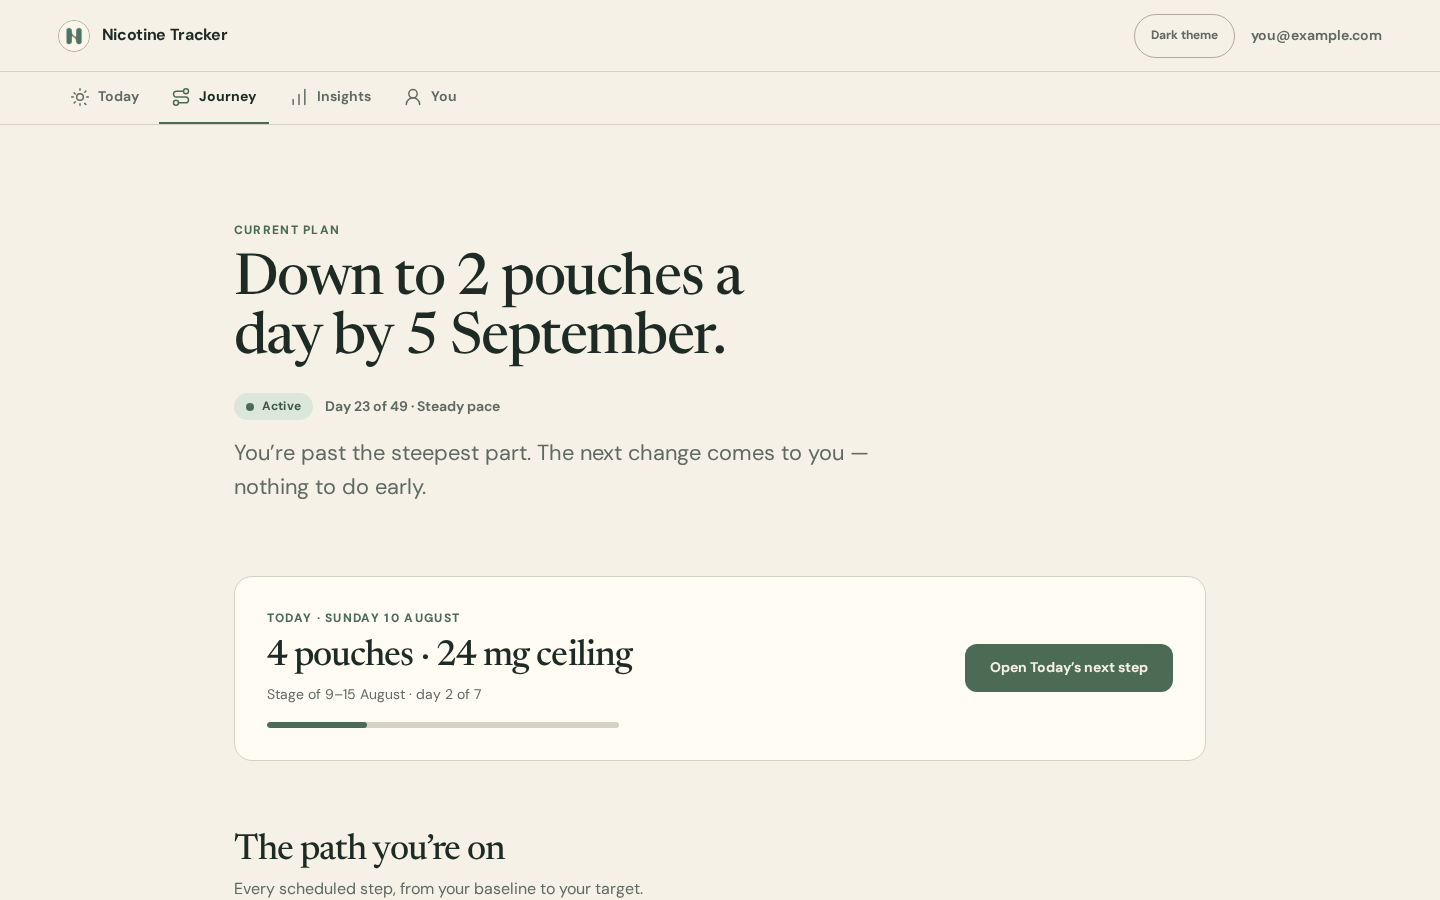
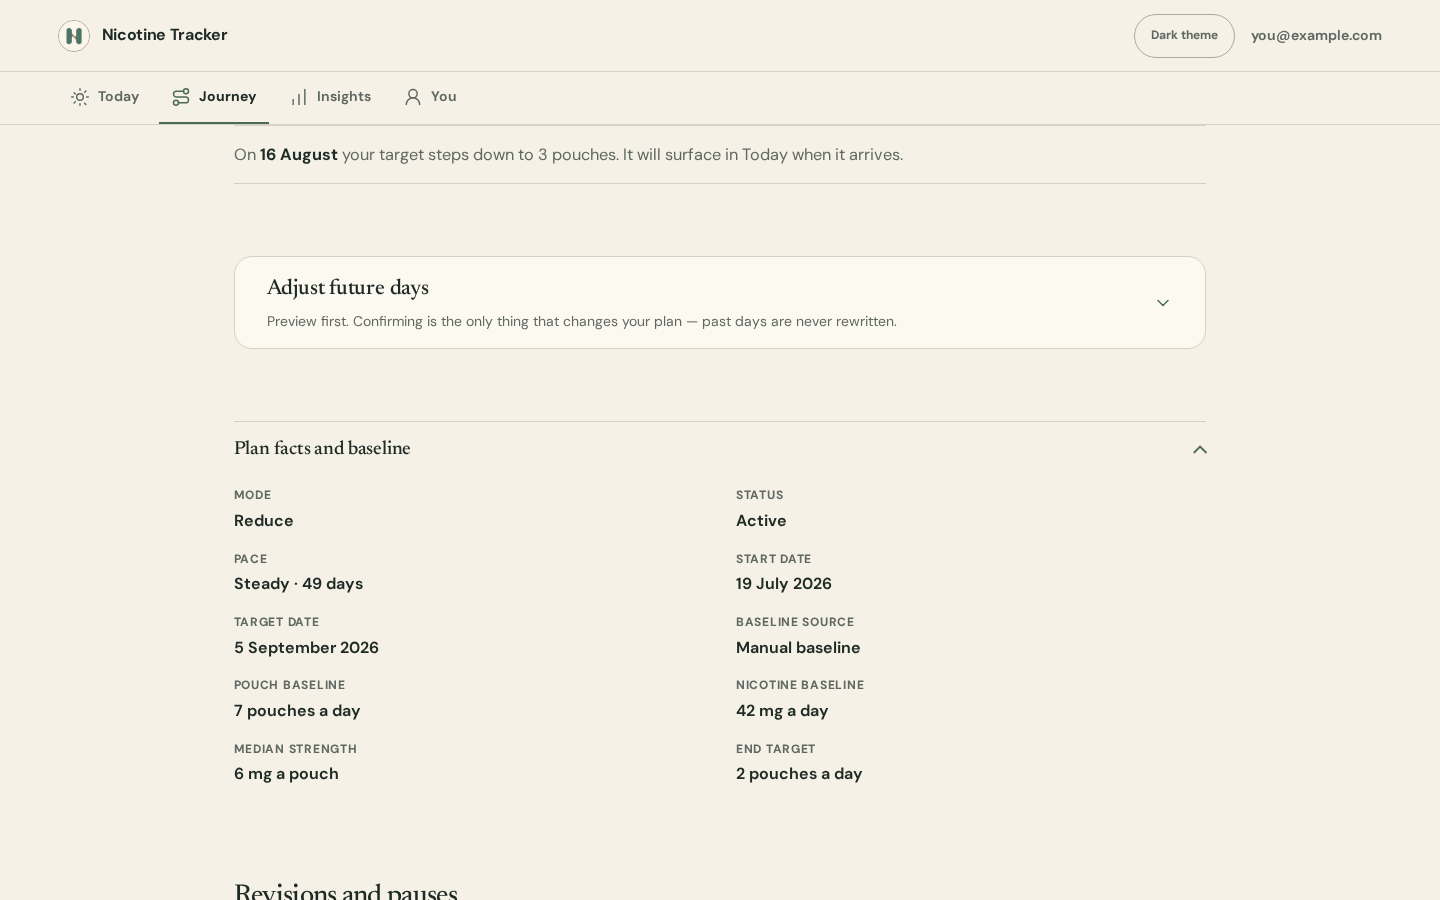
prototype: animate facts accordion; fix history date contrast; harden axe reveal

diff --git a/prototypes/journey/index.html b/prototypes/journey/index.html
@@ -54,6 +54,7 @@
   --color-attention-soft: #f1ddd3;
   --color-milestone: #c5a05a;
   --color-milestone-soft: #eee2c6;
+  --color-milestone-deep: #7d5f2a;
   --color-focus: #2f6b4a;
   --color-danger: #944733;
   --font-display: "Newsreader", Georgia, serif;
@@ -94,6 +95,7 @@
   --color-attention-soft: #422d25;
   --color-milestone: #d4b474;
   --color-milestone-soft: #3e3525;
+  --color-milestone-deep: #d4b474;
   --color-focus: #b8d2bc;
   --color-danger: #e09477;
   --shadow-overlay: none;
@@ -654,6 +656,13 @@ button { font: inherit; }
   transition: transform var(--duration-panel) var(--ease-out-expo);
 }
 .facts[open] summary::after { transform: rotate(225deg) translateY(-.15rem); }
+.facts__collapse { display: grid; grid-template-rows: 1fr; }
+html.js .facts__collapse {
+  grid-template-rows: 0fr;
+  transition: grid-template-rows var(--duration-panel) var(--ease-out-expo);
+}
+html.js .facts__collapse.is-open { grid-template-rows: 1fr; }
+.facts__collapse-inner { min-height: 0; overflow: hidden; }
 .facts__grid {
   display: grid;
   grid-template-columns: 1fr 1fr;
@@ -698,7 +707,7 @@ button { font: inherit; }
   width: 3.5rem;
   font-family: var(--font-display);
   font-style: italic;
-  color: var(--color-milestone);
+  color: var(--color-milestone-deep);
   font-size: 1rem;
 }
 
@@ -724,6 +733,7 @@ html.js .rise.is-in {
   .chart-step--past.draw-in { animation: none; stroke-dasharray: none; stroke-dashoffset: 0; }
   .chart-step--future.fade-in, .chart-preview-step.fade-in { animation: none; opacity: 1; }
   .adjust__collapse, .adjust__collapse-inner { transition: none; }
+  html.js .facts__collapse { grid-template-rows: 1fr; transition: none; }
 }
 
 @media (max-width: 48rem) {
@@ -900,20 +910,24 @@ html.js .rise.is-in {
     </div>
   </section>
 
-  <details class="facts rise" style="--i:5">
+  <details class="facts rise" style="--i:5" data-accordion>
     <summary>Plan facts and baseline</summary>
-    <dl class="facts__grid">
-      <div><dt>Mode</dt><dd>Reduce</dd></div>
-      <div><dt>Status</dt><dd>Active</dd></div>
-      <div><dt>Pace</dt><dd>Steady · 49 days</dd></div>
-      <div><dt>Start date</dt><dd>19 July 2026</dd></div>
-      <div><dt>Target date</dt><dd>5 September 2026</dd></div>
-      <div><dt>Baseline source</dt><dd>Manual baseline</dd></div>
-      <div><dt>Pouch baseline</dt><dd>7 pouches a day</dd></div>
-      <div><dt>Nicotine baseline</dt><dd>42 mg a day</dd></div>
-      <div><dt>Median strength</dt><dd>6 mg a pouch</dd></div>
-      <div><dt>End target</dt><dd>2 pouches a day</dd></div>
-    </dl>
+    <div class="facts__collapse" data-accordion-collapse>
+      <div class="facts__collapse-inner">
+        <dl class="facts__grid">
+          <div><dt>Mode</dt><dd>Reduce</dd></div>
+          <div><dt>Status</dt><dd>Active</dd></div>
+          <div><dt>Pace</dt><dd>Steady · 49 days</dd></div>
+          <div><dt>Start date</dt><dd>19 July 2026</dd></div>
+          <div><dt>Target date</dt><dd>5 September 2026</dd></div>
+          <div><dt>Baseline source</dt><dd>Manual baseline</dd></div>
+          <div><dt>Pouch baseline</dt><dd>7 pouches a day</dd></div>
+          <div><dt>Nicotine baseline</dt><dd>42 mg a day</dd></div>
+          <div><dt>Median strength</dt><dd>6 mg a pouch</dd></div>
+          <div><dt>End target</dt><dd>2 pouches a day</dd></div>
+        </dl>
+      </div>
+    </div>
   </details>
 
   <section class="history rise" style="--i:6" aria-labelledby="history-title">
@@ -973,6 +987,51 @@ html.js .rise.is-in {
     });
   }, { threshold: 0.12 });
   document.querySelectorAll(".rise").forEach((el) => io.observe(el));
+
+  /* Animated accordions: details[data-accordion] unfold via grid-rows.
+     The open attribute is kept during the close transition so the content
+     stays visible while collapsing; reduced motion keeps native instant
+     toggling. */
+  const reducedMotionNow = () => window.matchMedia("(prefers-reduced-motion: reduce)").matches;
+  document.querySelectorAll("details[data-accordion]").forEach((details) => {
+    const summary = details.querySelector("summary");
+    const collapse = details.querySelector("[data-accordion-collapse]");
+    if (!summary || !collapse) return;
+    let animating = false;
+    const afterTransition = (fn) => {
+      let done = false;
+      const wrap = (e) => {
+        if (e && e.propertyName && e.propertyName !== "grid-template-rows") return;
+        if (done) return;
+        done = true;
+        collapse.removeEventListener("transitionend", wrap);
+        animating = false;
+        fn();
+      };
+      collapse.addEventListener("transitionend", wrap);
+      setTimeout(wrap, 350); // safety: transition duration + margin
+    };
+    summary.addEventListener("click", (e) => {
+      if (animating) {
+        e.preventDefault();
+        return;
+      }
+      if (reducedMotionNow()) return; // native instant toggle
+      e.preventDefault();
+      animating = true;
+      if (!details.open) {
+        details.open = true; // children render (UA unhides)
+        void collapse.offsetHeight; // flush the 0fr state so the transition has a start
+        collapse.classList.add("is-open"); // 0fr -> 1fr
+        afterTransition(() => {});
+      } else {
+        collapse.classList.remove("is-open"); // 1fr -> 0fr
+        afterTransition(() => {
+          details.open = false; // UA re-hides the collapsed content
+        });
+      }
+    });
+  });
 })();
 </script>
 <script>

diff --git a/prototypes/journey/verify.js b/prototypes/journey/verify.js
@@ -14,6 +14,10 @@ const { AxeBuilder } = require("@axe-core/playwright");
   await page.selectOption("[data-adjust-pace]", "focused");
   await page.click("[data-adjust-preview]");
   await page.waitForSelector("[data-preview-summary]:not([hidden])", { timeout: 5000 });
+  await page.click(".facts summary");
+  await page.waitForTimeout(400); // let the open animation finish
+  // Reveal every .rise section so axe cannot skip hidden below-fold content
+  await page.evaluate(() => document.querySelectorAll(".rise").forEach((el) => el.classList.add("is-in")));
   const results = await new AxeBuilder({ page }).analyze();
   console.log("axe violations:", results.violations.length);
   results.violations.forEach((v) => {
@@ -28,6 +32,7 @@ const { AxeBuilder } = require("@axe-core/playwright");
   const darkPage = await dark.newPage();
   await darkPage.goto(url, { waitUntil: "networkidle" });
   await darkPage.click("[data-theme-toggle]");
+  await darkPage.evaluate(() => document.querySelectorAll(".rise").forEach((el) => el.classList.add("is-in")));
   const darkResults = await new AxeBuilder({ page: darkPage }).analyze();
   console.log("dark axe violations:", darkResults.violations.length);
   darkResults.violations.forEach((v) => {
@@ -52,6 +57,14 @@ const { AxeBuilder } = require("@axe-core/playwright");
   );
   console.log("reduced-motion hidden .rise elements:", hiddenCount);
   if (hiddenCount > 0) process.exit(1);
+  // Reduced motion: accordion toggles natively (instant, still functional)
+  await rm.click(".facts summary");
+  await rm.waitForTimeout(200);
+  const rmFactsOpen = await rm.evaluate(() => document.querySelector("details.facts").open);
+  if (!rmFactsOpen) {
+    console.error("reduced-motion facts accordion failed to open");
+    process.exit(1);
+  }
   await rm.screenshot({ path: "shot-reduced-motion.png" });
   await rmContext.close();
 

diff --git a/prototypes/journey/shot.js b/prototypes/journey/shot.js
@@ -64,6 +64,28 @@ const { chromium } = require("playwright");
     process.exit(1);
   }
   await desktop.screenshot({ path: "shot-desktop-adjusted.png", fullPage: true });
+
+  // Facts accordion animates open, then fully closes
+  const factsH = () => desktop.evaluate(() => document.querySelector("[data-accordion-collapse]").offsetHeight);
+  await desktop.click(".facts summary");
+  await desktop.waitForTimeout(60);
+  const fEarly = await factsH();
+  await desktop.waitForTimeout(500);
+  const fOpen = await factsH();
+  if (!(fOpen > fEarly)) {
+    console.error("facts accordion did not animate open:", fEarly, "->", fOpen);
+    process.exit(1);
+  }
+  await desktop.click(".facts summary");
+  await desktop.waitForTimeout(500);
+  const factsState = await desktop.evaluate(() => ({
+    open: document.querySelector("details.facts").open,
+    h: document.querySelector("[data-accordion-collapse]").offsetHeight,
+  }));
+  if (factsState.open || factsState.h !== 0) {
+    console.error("facts accordion did not fully close:", factsState);
+    process.exit(1);
+  }
   await desktop.close();
 
   // Mobile, full page
